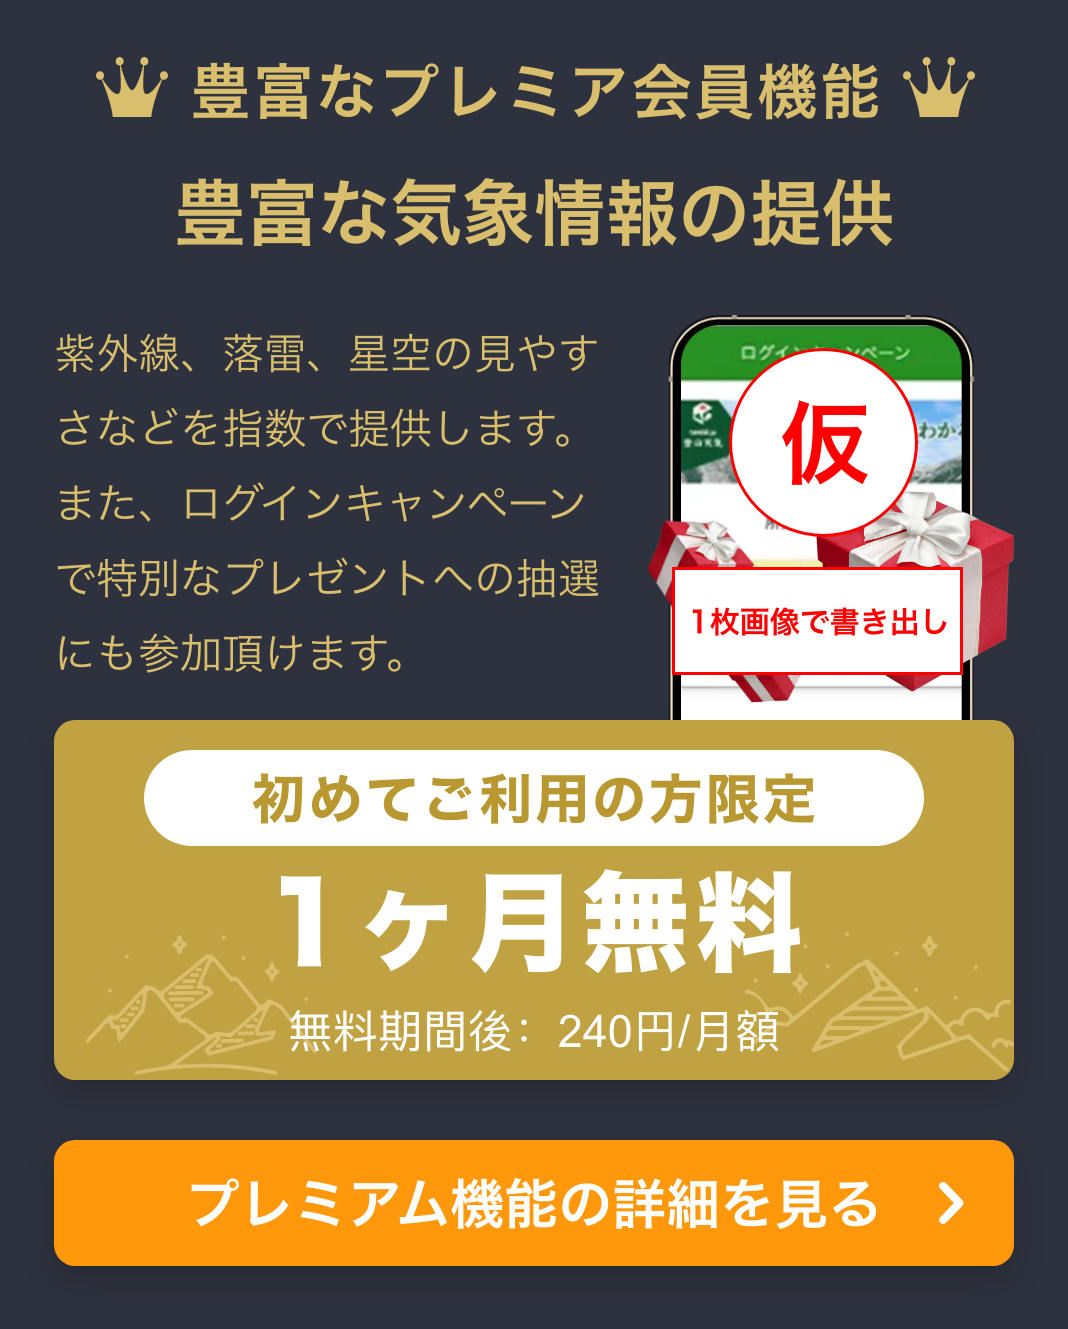
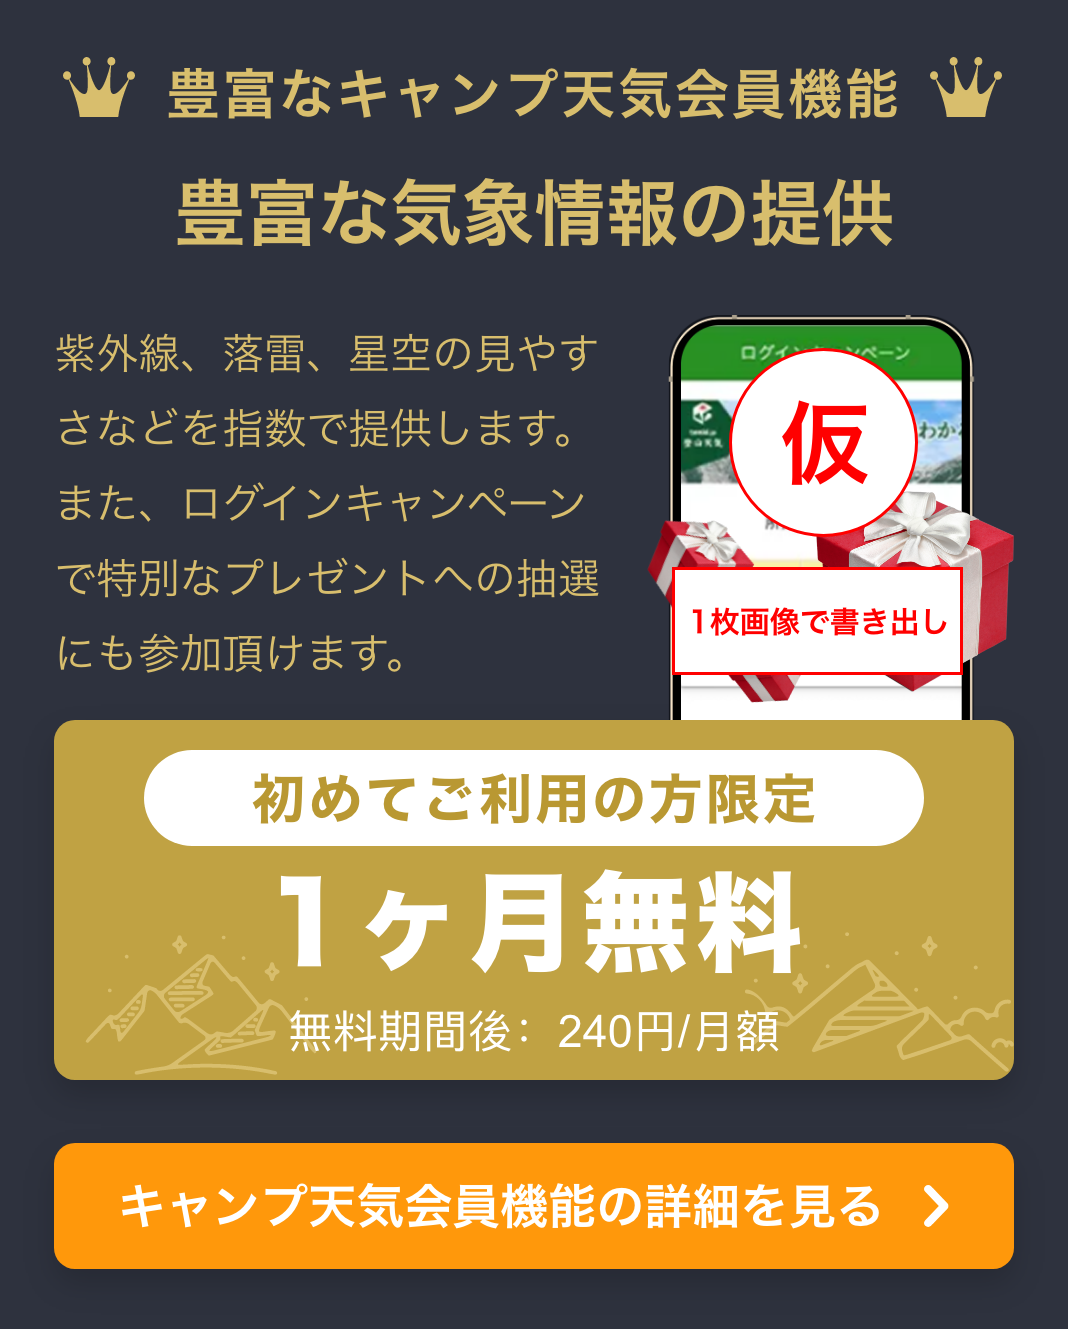
Change words of LP screen

Changed region(s): [[0.0618, 0.0309, 0.927, 0.0926], [0.1236, 0.8638, 0.8343, 0.9255], [0.8652, 0.8947, 0.8961, 0.9255]]

diff --git a/src/components/organisms/purchase-information/greeting.vue b/src/components/organisms/purchase-information/greeting.vue
@@ -1,10 +1,10 @@
 <template>
   <div class="greeting">
     <div class="greeting__subtitle">
-      <p>\豊富なプレミア会員機能/</p>
+      <p>\豊富な機能/</p>
     </div>
     <div class="greeting__title">
-      <p>プレミア会員メニュー</p>
+      <p>キャンプ天気会員メニュー</p>
     </div>
     <div class="greeting__content">
       <img
@@ -32,13 +32,11 @@ export default {
 
   &__title,
   &__subtitle {
-    display: flex;
-    justify-content: center;
-
     p {
       margin: 0;
       font-weight: 600;
       color: $color-purchase-gold;
+      text-align: center;
     }
   }
 
